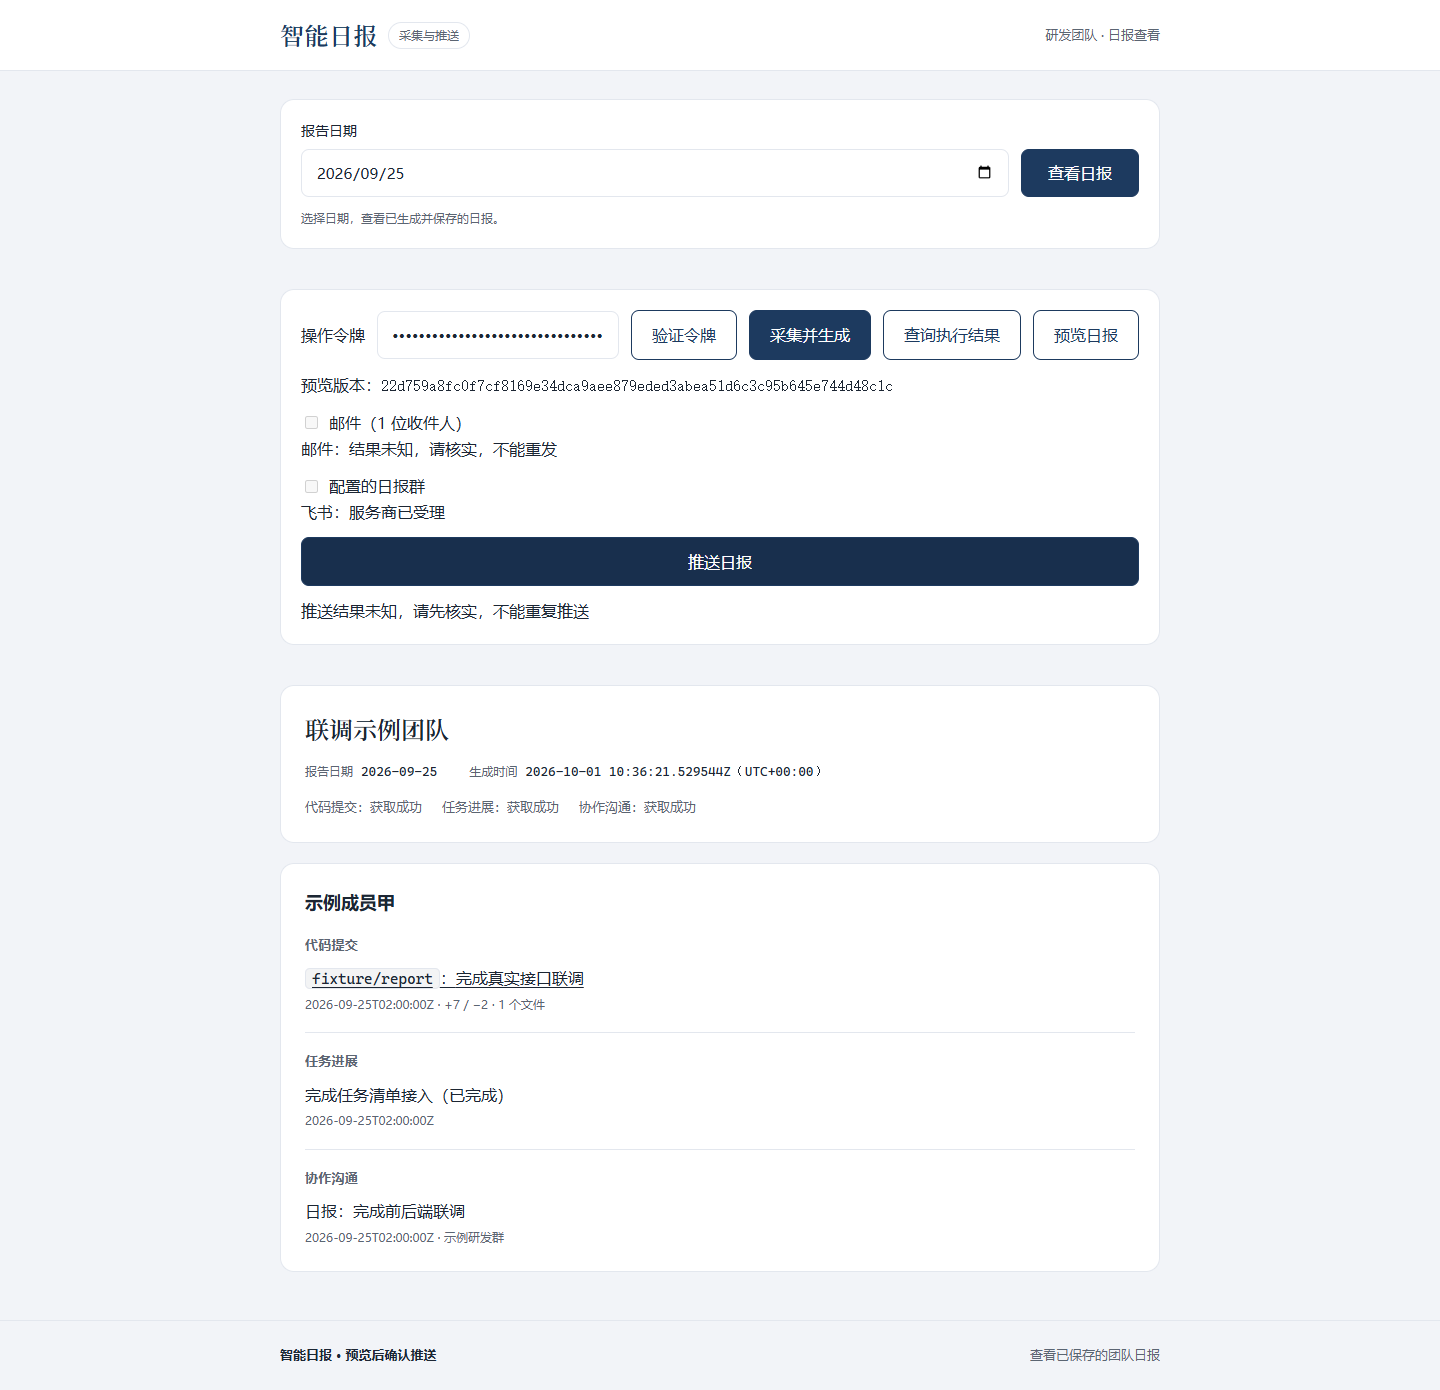
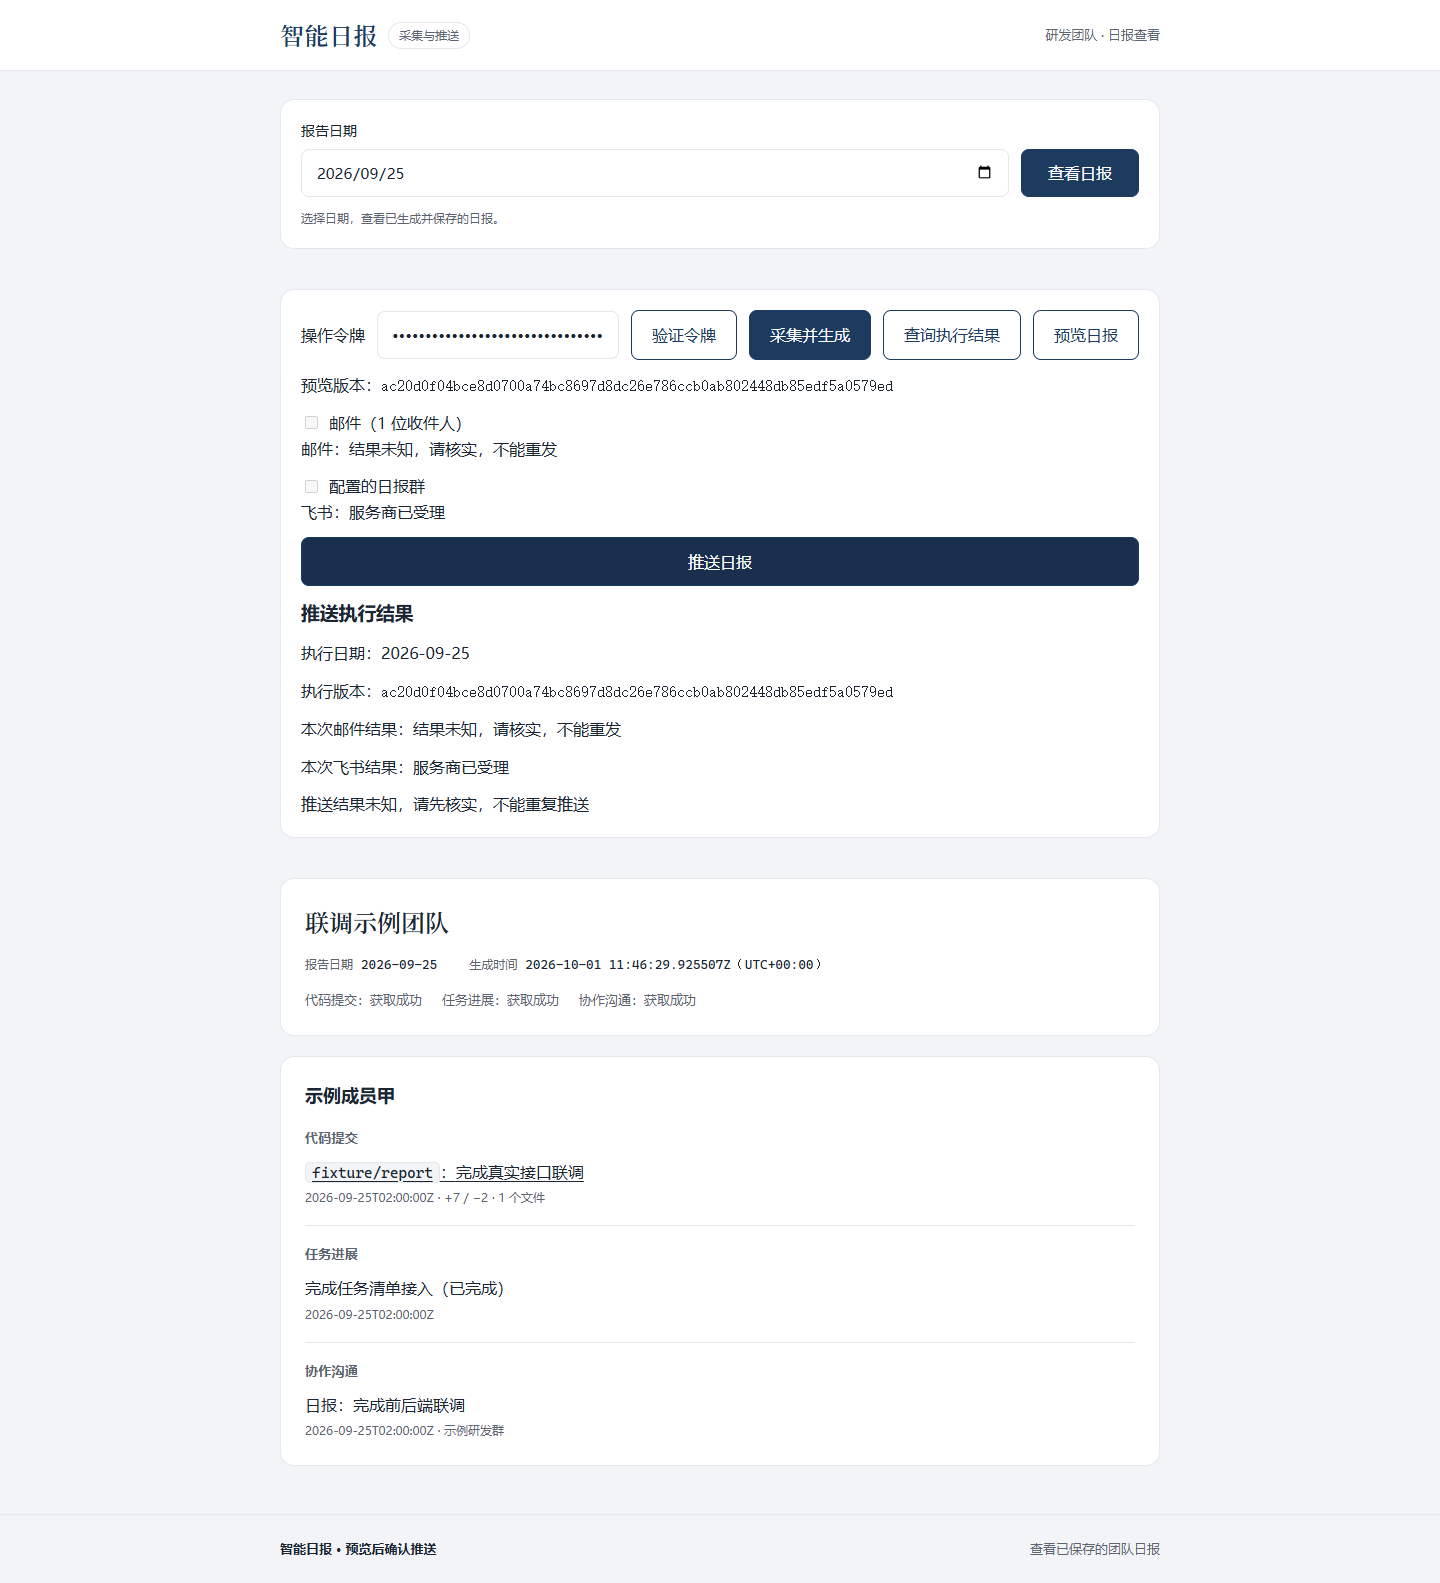
fix: preserve original request and delivery version during recovery

diff --git a/frontend/src/App.operations.test.tsx b/frontend/src/App.operations.test.tsx
@@ -419,3 +419,68 @@ test('manual_lookup_404_after_initial_network_loss_offers_original_key_retry', a
   fireEvent.click(await screen.findByRole('button',{name:'重试原请求'})); await screen.findByText('正在生成日报…');
   expect(posts).toHaveLength(2); expect(posts[1]).toEqual(posts[0]);
 });
+
+
+test('reauthentication_does_not_release_unknown_request_based_on_unrelated_current', async () => {
+  const posts: { key: string; body: string }[] = []; let currentReads = 0;
+  const fetchMock = vi.fn().mockImplementation((url: string, options: RequestInit) => {
+    if (url.endsWith('/current')) return Promise.resolve(response(++currentReads === 1 ? null : operationFixture('succeeded')));
+    if (url.includes('/by-key/')) return Promise.reject(new Error('private-marker'));
+    if (options.method === 'POST') {
+      posts.push({ key: (options.headers as Record<string, string>)['Idempotency-Key'], body: options.body as string });
+      return Promise.reject(new Error('private-marker'));
+    }
+    return Promise.resolve(response(previewFixture()));
+  }); setup(fetchMock);
+  await waitFor(() => expect(screen.getByRole('button', { name: '采集并生成' })).toBeEnabled()); generate();
+  await screen.findByText('执行结果尚未确认');
+  fireEvent.click(screen.getByRole('button', { name: '验证令牌' }));
+  await waitFor(() => expect(screen.getByRole('button', { name: '验证令牌' })).toBeEnabled());
+  expect(screen.getByRole('button', { name: '采集并生成' })).toBeDisabled(); generate();
+  expect(posts).toHaveLength(1); expect(currentReads).toBe(1);
+  expect(fetchMock.mock.calls.filter(call => String(call[0]).endsWith(`/by-key/${posts[0].key}`))).toHaveLength(2);
+});
+
+test('reauthentication_404_allows_explicit_retry_of_only_original_request', async () => {
+  const posts: { key: string; body: string }[] = []; let lookups = 0; let currentReads = 0;
+  const fetchMock = vi.fn().mockImplementation((url: string, options: RequestInit) => {
+    if (url.endsWith('/current')) return Promise.resolve(response(++currentReads === 1 ? null : operationFixture('succeeded')));
+    if (url.includes('/by-key/')) return ++lookups === 1 ? Promise.reject(new Error('private-marker'))
+      : Promise.resolve(response({ error: { code: 'operation_not_found' } }, 404));
+    if (options.method === 'POST') {
+      posts.push({ key: (options.headers as Record<string, string>)['Idempotency-Key'], body: options.body as string });
+      return posts.length === 1 ? Promise.reject(new Error('private-marker'))
+        : Promise.resolve(response({ ...operationFixture(), request_id: posts[0].key }, 202));
+    }
+    return Promise.resolve(response(previewFixture()));
+  }); setup(fetchMock);
+  await waitFor(() => expect(screen.getByRole('button', { name: '采集并生成' })).toBeEnabled()); generate();
+  await screen.findByText('执行结果尚未确认');
+  fireEvent.change(screen.getByLabelText('操作令牌'), { target: { value: 'replacement-private-token' } });
+  fireEvent.click(screen.getByRole('button', { name: '验证令牌' }));
+  fireEvent.click(await screen.findByRole('button', { name: '重试原请求' }));
+  await screen.findByText('正在生成日报…');
+  expect(posts).toHaveLength(2); expect(posts[1]).toEqual(posts[0]); expect(currentReads).toBe(1);
+});
+
+
+test('restored_delivery_results_stay_bound_to_original_version_after_same_date_update', async () => {
+  const delivered = deliveryFixture('partial_failure', 'accepted', 'rejected');
+  const newer = previewFixture(); newer.report_revision = 'b'.repeat(64); newer.report.team_name = '后续生成的新日报';
+  const fetchMock = vi.fn().mockImplementation((url: string) => Promise.resolve(response(url.endsWith('/current') ? delivered : newer)));
+  setup(fetchMock);
+  await waitFor(() => expect(screen.getByRole('button', { name: '验证令牌' })).toBeEnabled());
+  const results = screen.getByRole('region', { name: '推送执行结果' });
+  expect(within(results).getByText('a'.repeat(64))).toBeInTheDocument();
+  expect(within(results).getByText(/2026-09-25/)).toBeInTheDocument();
+  expect(within(results).getByText('本次邮件结果：服务商已受理')).toBeInTheDocument();
+  expect(within(results).getByText('本次飞书结果：明确拒绝，可单独重提')).toBeInTheDocument();
+  expect(screen.queryByRole('heading', { name: '后续生成的新日报' })).not.toBeInTheDocument();
+  expect(screen.getByText(/日报已更新，请重新预览/)).toBeInTheDocument();
+  fireEvent.click(screen.getByRole('button', { name: '预览日报' }));
+  await screen.findByRole('heading', { name: '后续生成的新日报' });
+  expect(within(screen.getByRole('region', { name: '推送执行结果' })).getByText('a'.repeat(64))).toBeInTheDocument();
+  expect(screen.getByText('b'.repeat(64))).toBeInTheDocument();
+  expect(within(results).getByText('本次邮件结果：服务商已受理')).toBeInTheDocument();
+  expect(fetchMock.mock.calls.every(call => call[1].method === 'GET')).toBe(true);
+});

diff --git a/frontend/src/OperationPanel.tsx b/frontend/src/OperationPanel.tsx
@@ -74,17 +74,31 @@ export function OperationPanel({ date, onPreview, preview }: Props) {
     if (value.report_revision && value.report_date === selectedDate) {
       try {
         const preview = await getPreview(selectedDate, token, ticket.signal);
-        if (ticket.id === work.current.id && preview.report.report_date === selectedDate) onPreview(preview);
+        if (ticket.id === work.current.id && preview.report.report_date === selectedDate) {
+          if (preview.report_revision === value.report_revision) onPreview(preview);
+          else {
+            onPreview(null);
+            setMessage(`${value.kind === 'generation' ? texts[value.status] : deliveryTexts[value.status]}。日报已更新，请重新预览；执行结果仍属于原版本。`);
+          }
+        }
       } catch (error) { if (ticket.id === work.current.id) failure(error); }
     }
   }
   async function authenticate() {
-    const ticket = begin(); setBusy(true);
+    const ticket = begin(); setBusy(true); setCanRetry(false);
     try {
-      const current = await getCurrentOperation(token, ticket.signal);
+      const current = pending.current ? await getOperationByKey(pending.current.key, token, ticket.signal)
+        : await getCurrentOperation(token, ticket.signal);
       if (ticket.id !== work.current.id) return;
       setAuthenticated(true); await show(current, ticket, date);
-    } catch (error) { if (ticket.id === work.current.id) failure(error); }
+    } catch (error) {
+      if (ticket.id === work.current.id) {
+        failure(error);
+        if (pending.current && error instanceof OperationError && error.code === 'operation_not_found') {
+          setAuthenticated(true); setCanRetry(true);
+        }
+      }
+    }
     finally { if (ticket.id === work.current.id) setBusy(false); }
   }
   async function generate() {
@@ -155,6 +169,14 @@ export function OperationPanel({ date, onPreview, preview }: Props) {
       <button type="button" className="btn btn-primary" disabled={busy || !channels.length || operation?.status === 'running' || !!pending.current}
         onClick={() => setConfirmation({ date: preview.report.report_date, revision: preview.report_revision, channels: [...channels], targets: channels.map(channel => preview.targets[channel].label) })}>推送日报</button>
     </div>}
+    {authenticated && operation?.kind === 'delivery' && <section className="delivery-options" aria-label="推送执行结果">
+      <h3>推送执行结果</h3>
+      <p>执行日期：{operation.report_date}</p>
+      <p>执行版本：<code>{operation.report_revision}</code></p>
+      {(['email', 'lark'] as Channel[]).map(channel => <p key={channel}>
+        本次{channel === 'email' ? '邮件' : '飞书'}结果：{outcomeText[operation.deliveries[channel].status]}
+      </p>)}
+    </section>}
     {confirmation && authenticated && preview && confirmation.date === date && confirmation.revision === preview.report_revision &&
       <dialog ref={dialog} className="confirm-dialog" aria-labelledby="delivery-title" onCancel={event => { event.preventDefault(); setConfirmation(null); }}>
         <h2 id="delivery-title">确认推送日报</h2><p>{confirmation.date}</p><code>{confirmation.revision}</code>

diff --git a/docs/frontend/v1.2-tdd-log.md b/docs/frontend/v1.2-tdd-log.md
@@ -140,3 +140,12 @@ checkpoint：pytest260/94.61%；frontend95，逐文件四项≥90；npm ci/typec
 manual_lookup_404_after_initial_network_loss_offers_original_key_retry：RED1（手动原键404后重试按钮不存在）；queryResult先清旧重试状态，仅原pending键明确404后开放同键显式重试，GREEN。新增真实HTTP两视口验证原键/原内容、通知0，完整操作24通过。pytest260/94.61%，frontend96（statements97.83/branches96.11/functions100/lines100，逐文件四项90），typecheck/build0；operations生产预览只GET验证真实本机API、POST0。
 
 独立审查额度中断未给出完整结论；这是已确认缺陷修复，不冒充整分支审查通过。真实权限/样本/收件及完整独立审查仍未完成。
+
+## 中断的同一轮审查恢复后：两项前端恢复修复
+
+完整独立审查已恢复并返回Critical0、Important2、Minor0；不是第二轮审查。
+
+- reauthentication_does_not_release_unknown_request_based_on_unrelated_current、reauthentication_404_allows_explicit_retry_of_only_original_request：RED2，分别错误启用新生成和缺失同键重试；有pending时重认证查询原键，明确404后仅开放显式原键重试，GREEN2。首个测试写入命令目录错误未写文件，筛选的旧测试直接通过，不计作RED；纠正后观察到真实两项失败。
+- restored_delivery_results_stay_bound_to_original_version_after_same_date_update：RED1，原版本/渠道结果未显示；独立显示OperationView日期/摘要/渠道，自动预览要求版本匹配，更新后的版本需显式预览，GREEN1。后续显式预览B仍保留A的真实受理/拒绝结果。
+
+完整前端99 passed，整体statements97.88/branches96/functions100/lines100，四模块逐文件四项≥90；pytest260/94.61%，typecheck/build exit0。浏览器只读14、操作24最终均exit0；首次并行两套共享test-results，操作套件22 passed/2 failed（轨迹文件ENOENT），只读14通过；保留失败日志，顺序重跑操作24通过。不把启动/工具错误计作业务RED。没有真实发送。
